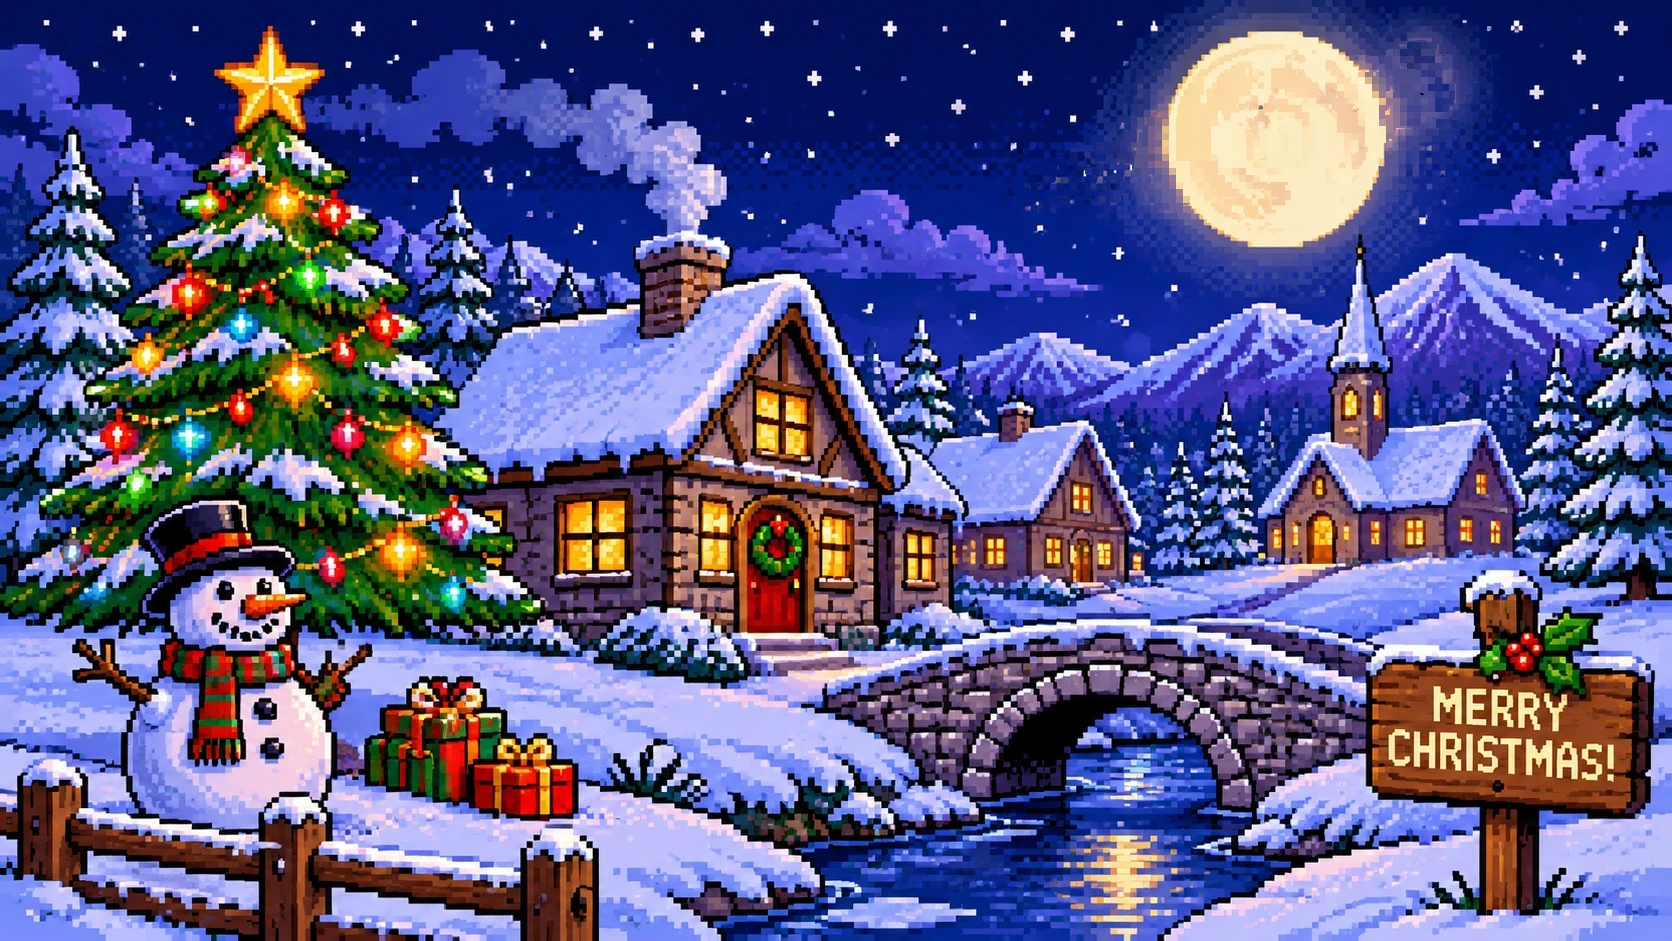
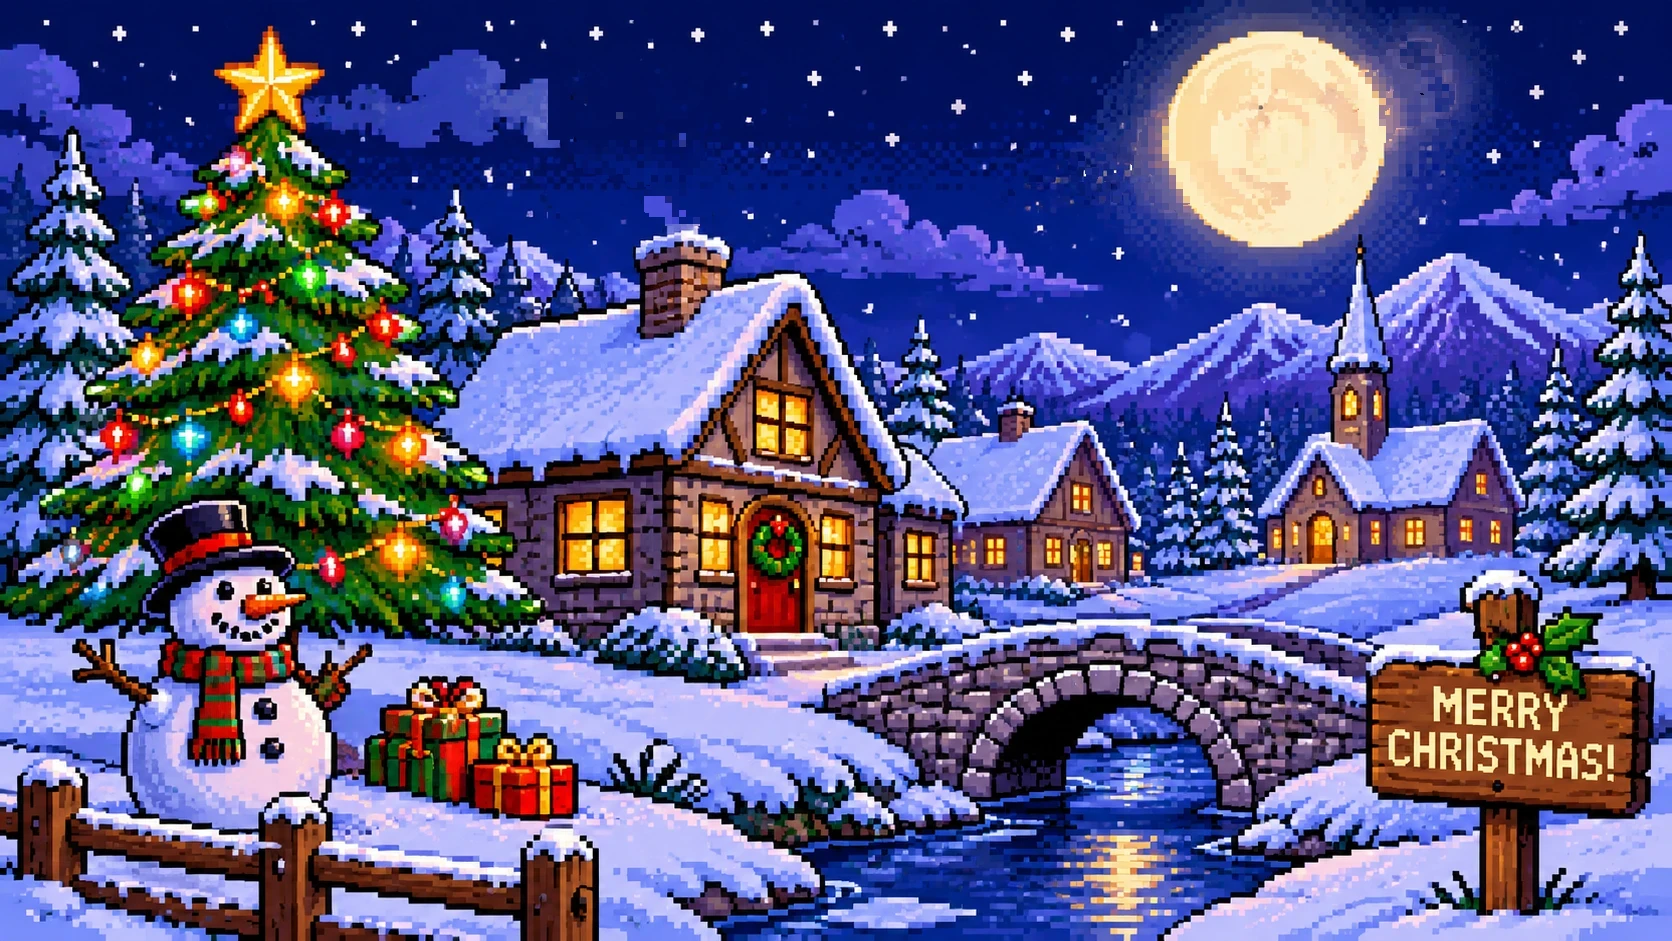
Animated smoke plume in place of the painted one, clean star by day, plain images for the picture, a timer when frames stop, diagnostics setting

Changed region(s): [[0.311, 0.0925, 0.4354, 0.2465]]

diff --git a/assets/village/village.js b/assets/village/village.js
@@ -19,9 +19,13 @@
   var snowLevel = Math.max(0, Math.min(3, Math.round(num(opts.snow, 2))));
   var santa = opts.santa !== false;
   var fixedTime = /^(\d\d?):(\d\d)$/.exec(query.get('t') || '');
+  var diagnostics = opts.diagnostics === true || query.has('diag');
+  var errors = [];
+  window.addEventListener('error', function (e) { errors.push(String(e.message || e) + (e.lineno ? ' @' + e.lineno : '')); });
 
   var stage = document.getElementById('stage');
-  var base = document.getElementById('base'), bctx = base.getContext('2d');
+  var nightImg = document.getElementById('night'), dayImg = document.getElementById('day');
+  var glow1 = document.getElementById('glow1'), glow2 = document.getElementById('glow2');
   var fx = document.getElementById('fx'), ctx = fx.getContext('2d');
   var cloudCanvas = document.getElementById('clouds'), cctx = cloudCanvas.getContext('2d');
   var sleighCanvas = document.getElementById('sleigh'), sctx = sleighCanvas.getContext('2d');
@@ -31,7 +35,7 @@
     img.src = src;
     return img;
   }
-  var night = load('night.webp'), day = load('day.webp'), skyMask = load('sky.png'), sleighImg = load('sleigh.png');
+  var skyMask = load('sky.png'), sleighImg = load('sleigh.png');
   // Where the sky is, one value per dot of the effects layer: Santa and his sparkles only show there.
   var skyCells = null;
   skyMask.onload = function () {
@@ -82,32 +86,14 @@
   }
 
   // ---- The picture: night and day blended, warmed at dawn and dusk -------------------------
+  // Plain images faded with CSS, so the village shows even where canvas drawing struggles.
   var lastDay = -1, lastGlow = -1;
   function drawBase(d, g) {
-    if (!night.complete || !day.complete) return;
     if (Math.abs(d - lastDay) < 0.003 && Math.abs(g - lastGlow) < 0.003) return;
     lastDay = d; lastGlow = g;
-    bctx.globalCompositeOperation = 'source-over';
-    bctx.globalAlpha = 1;
-    bctx.drawImage(night, 0, 0, W, H);
-    if (d > 0) { bctx.globalAlpha = d; bctx.drawImage(day, 0, 0, W, H); }
-    if (g > 0.01) {
-      var grad = bctx.createLinearGradient(0, 0, 0, H);
-      grad.addColorStop(0, 'rgb(150,70,160)');
-      grad.addColorStop(0.3, 'rgb(255,110,80)');
-      grad.addColorStop(0.5, 'rgb(255,170,90)');
-      grad.addColorStop(1, 'rgb(170,110,150)');
-      bctx.fillStyle = grad;
-      bctx.globalCompositeOperation = 'overlay';
-      bctx.globalAlpha = 0.8 * g;
-      bctx.fillRect(0, 0, W, H);
-      // A warm wash over the sky and snow.
-      bctx.globalCompositeOperation = 'soft-light';
-      bctx.globalAlpha = 0.6 * g;
-      bctx.fillRect(0, 0, W, H);
-    }
-    bctx.globalAlpha = 1;
-    bctx.globalCompositeOperation = 'source-over';
+    dayImg.style.opacity = d.toFixed(3);
+    glow1.style.opacity = (0.8 * g).toFixed(3);
+    glow2.style.opacity = (0.6 * g).toFixed(3);
   }
 
   // ---- Fitting the screen ------------------------------------------------------------------
@@ -244,31 +230,44 @@
   }
 
   // ---- Chimney smoke -------------------------------------------------------------------------
-  var chimneys = S.chimneys.map(function (c) { return { gx: c[0] / P, gy: c[1] / P, next: 0 }; });
+  // A plume of round puffs that swell, drift with the wind and fade as they rise. Santa flies
+  // behind it.
+  var chimneys = S.chimneys.map(function (c, i) { return { gx: c[0] / P, gy: c[1] / P - 0.5, next: 0, small: i > 0 }; });
   var puffs = [];
+  function disc(cx, cy, r) {
+    var ri = Math.ceil(r);
+    for (var dy = -ri; dy <= ri; dy++) {
+      var half = Math.floor(Math.sqrt(Math.max(0, r * r - dy * dy)) + 0.35);
+      if (half < 0) continue;
+      ctx.fillRect(Math.round(cx) - half, Math.round(cy) + dy, half * 2 + 1, 1);
+    }
+  }
   function drawSmoke(dt, d) {
     for (var c = 0; c < chimneys.length; c++) {
       var ch = chimneys[c];
       ch.next -= dt;
       if (ch.next <= 0) {
-        ch.next = rand(0.45, 0.8);
-        puffs.push({ x: ch.gx + rand(-0.6, 0.6), y: ch.gy, age: 0, life: rand(5, 7.5), ph: rand(0, 6.3), small: c > 0 });
+        ch.next = ch.small ? rand(0.3, 0.45) : rand(0.16, 0.24);
+        puffs.push({ x: ch.gx + rand(-0.6, 0.6), y: ch.gy, age: 0, life: ch.small ? rand(3.5, 4.5) : rand(5.5, 7), ph: rand(0, 6.3), small: ch.small });
       }
     }
-    var tint = d > 0.5 ? [238, 238, 244] : [200, 200, 232];
+    var body = d > 0.5 ? '186,192,208' : '150,156,212';
+    var light = d > 0.5 ? '236,239,245' : '200,202,238';
     for (var i = puffs.length - 1; i >= 0; i--) {
       var p = puffs[i];
       p.age += dt;
       if (p.age >= p.life) { puffs.splice(i, 1); continue; }
       var k = p.age / p.life;
-      var x = p.x + (wind * 0.5 + 0.35) * p.age + Math.sin(p.age * 1.3 + p.ph) * 0.7;
-      var y = p.y - (p.small ? 1.2 : 1.6) * p.age;
-      var size = Math.round((p.small ? 1 : 1.2) + k * (p.small ? 1.4 : 2.4));
-      var a = 0.55 * Math.pow(1 - k, 1.3) * Math.min(1, p.age / 0.4);
-      ctx.fillStyle = 'rgba(' + tint[0] + ',' + tint[1] + ',' + tint[2] + ',' + a.toFixed(3) + ')';
-      var gx = Math.round(x - size / 2), gy = Math.round(y - size / 2);
-      if (size < 3) ctx.fillRect(gx, gy, size, size);
-      else { ctx.fillRect(gx + 1, gy, size - 2, size); ctx.fillRect(gx, gy + 1, size, size - 2); }
+      var x = p.x + (wind * 0.3 + 0.7) * p.age * (0.4 + k) + Math.sin(p.age * 1.2 + p.ph) * 1.1;
+      var y = p.y - (p.small ? 2.6 : 3.4) * p.age * (1 - 0.3 * k);
+      var r = (p.small ? 1.2 : 2) + k * (p.small ? 2.2 : 4.5);
+      var a = (p.small ? 0.7 : 0.85) * Math.pow(1 - k, 1.1) * Math.min(1, p.age / 0.3);
+      ctx.fillStyle = 'rgba(' + body + ',' + a.toFixed(3) + ')';
+      disc(x, y, r);
+      if (r > 1.4) {
+        ctx.fillStyle = 'rgba(' + light + ',' + (a * 0.7).toFixed(3) + ')';
+        disc(x - r * 0.3, y - r * 0.3, r * 0.55);
+      }
     }
   }
 
@@ -380,13 +379,50 @@
     }
   }
 
+  // ---- Diagnostics -------------------------------------------------------------------------
+  var frames = 0, diagBox = document.getElementById('diag'), diagAt = performance.now();
+  function showDiagnostics(t, m, d) {
+    frames++;
+    if (!diagnostics || t - diagAt < 1000) return;
+    var fps = Math.round(frames * 1000 / (t - diagAt));
+    frames = 0; diagAt = t;
+    function img(i) { return i.complete ? (i.naturalWidth ? 'ok ' + i.naturalWidth + 'x' + i.naturalHeight : 'FAILED') : 'loading'; }
+    diagBox.style.display = 'block';
+    diagBox.textContent = [
+      'Christmas Village diagnostics',
+      'screen ' + sizedW + 'x' + sizedH + ' window ' + window.innerWidth + 'x' + window.innerHeight + ' ratio ' + (window.devicePixelRatio || 1),
+      'scale ' + scale.toFixed(3) + ' spare ' + Math.round(spareX) + ',' + Math.round(spareY),
+      'frames/s ' + fps + '  time ' + Math.floor(m / 60) + ':' + ('0' + Math.floor(m % 60)).slice(-2) + '  daylight ' + d.toFixed(2),
+      'night ' + img(nightImg) + '  day ' + img(dayImg) + '  sky ' + img(skyMask) + '  sleigh ' + img(sleighImg),
+      'settings ' + JSON.stringify(opts),
+      errors.length ? 'errors: ' + errors.slice(-3).join(' | ') : 'no errors',
+      navigator.userAgent
+    ].join(String.fromCharCode(10));
+  }
+
   // ---- The loop ------------------------------------------------------------------------------
-  var last = performance.now();
+  var last = performance.now(), pending = false, lastCall = performance.now();
+  function next() {
+    if (pending) return;
+    pending = true;
+    requestAnimationFrame(function (t) { pending = false; frame(t); });
+  }
+  // Some WebViews hold back animation frames, for a while or for good. Then a timer keeps the
+  // scene moving instead.
+  setInterval(function () { if (performance.now() - lastCall > 400) frame(performance.now()); }, 50);
   function frame(t) {
-    requestAnimationFrame(frame);
+    lastCall = performance.now();
+    next();
     var dt = (t - last) / 1000;
     if (dt < 1 / 32) return; // about 30 frames a second is plenty
     last = t;
+    try { tick(t, dt); } catch (e) {
+      errors.push(String(e && e.message || e));
+      if (window.console) console.error(e);
+    }
+    try { showDiagnostics(t, minutesNow(), daylight(minutesNow())); } catch (e) { /* never stop the loop */ }
+  }
+  function tick(t, dt) {
     if (dt > 0.25) dt = 0.25;
     var m = minutesNow(), d = daylight(m), n = 1 - d;
     drawBase(d, glow(m));
@@ -401,6 +437,5 @@
     drawSanta(dt, n);
     drawSnow(dt, t, d);
   }
-  night.onload = day.onload = function () { lastDay = -1; };
-  requestAnimationFrame(frame);
+  next();
 })();

diff --git a/assets/village/index.html b/assets/village/index.html
@@ -11,7 +11,15 @@
   /* The scene is drawn at the picture's own size and scaled to cover the screen. */
   #stage { position: absolute; left: 0; top: 0; width: 1672px; height: 941px; transform-origin: 0 0; }
   #stage canvas, #stage img { position: absolute; left: 0; top: 0; image-rendering: pixelated; image-rendering: crisp-edges; }
-  #base { width: 1672px; height: 941px; }
+  #night, #day, .glow { width: 1672px; height: 941px; }
+  #day { opacity: 0; }
+  /* The warm light of sunrise and sunset. */
+  .glow { position: absolute; left: 0; top: 0; opacity: 0; pointer-events: none;
+    background: linear-gradient(to bottom, rgb(150,70,160) 0%, rgb(255,110,80) 30%, rgb(255,170,90) 50%, rgb(170,110,150) 100%); }
+  #glow1 { mix-blend-mode: overlay; }
+  #glow2 { mix-blend-mode: soft-light; }
+  #diag { position: fixed; left: 8px; top: 8px; z-index: 9; margin: 0; padding: 8px 10px; max-width: 90vw;
+    font: 13px/1.4 monospace; color: #ff0; background: rgba(0,0,0,0.8); white-space: pre-wrap; display: none; }
   /* The effects are drawn at one dot per 7 picture pixels, the size of the art's own pixels. */
   #clouds, #fx { width: 1673px; height: 945px; }
   #clouds { opacity: 0; }
@@ -21,12 +29,16 @@
 <body>
 <div id="view">
   <div id="stage">
-    <canvas id="base" width="1672" height="941"></canvas>
+    <img id="night" src="night.webp" alt="">
+    <img id="day" src="day.webp" alt="">
+    <div class="glow" id="glow1"></div>
+    <div class="glow" id="glow2"></div>
     <canvas id="clouds" width="239" height="135"></canvas>
     <canvas id="sleigh" width="257" height="136"></canvas>
     <canvas id="fx" width="239" height="135"></canvas>
   </div>
 </div>
+<pre id="diag"></pre>
 <script src="spots.js"></script>
 <script src="village.js"></script>
 </body>

diff --git a/tests/VillageTest.java b/tests/VillageTest.java
@@ -38,6 +38,8 @@ public final class VillageTest {
         Map<String, Object> o = VillagePlugin.options(map());
         assert "auto".equals(o.get("timeOfDay")) && o.get("sunrise").equals(480) && o.get("sunset").equals(960) : o;
         assert o.get("snow").equals(2) && Boolean.TRUE.equals(o.get("santa")) : o;
+        assert Boolean.FALSE.equals(o.get("diagnostics")) : o;
+        assert Boolean.TRUE.equals(VillagePlugin.options(map("diagnostics", true)).get("diagnostics"));
 
         // Every setting.
         o = VillagePlugin.options(map("timeOfDay", "Always night", "sunrise", "07:30", "sunset", "17:00", "snow", "Blizzard", "santa", false));

diff --git a/src/kiosk/xmas/VillagePlugin.java b/src/kiosk/xmas/VillagePlugin.java
@@ -76,6 +76,7 @@ public final class VillagePlugin implements KioskPlugin {
         int snow = SNOW.indexOf(settings.get("snow"));
         options.put("snow", snow < 0 ? 2 : snow);
         options.put("santa", !Boolean.FALSE.equals(settings.get("santa")));
+        options.put("diagnostics", Boolean.TRUE.equals(settings.get("diagnostics")));
         return options;
     }
 
